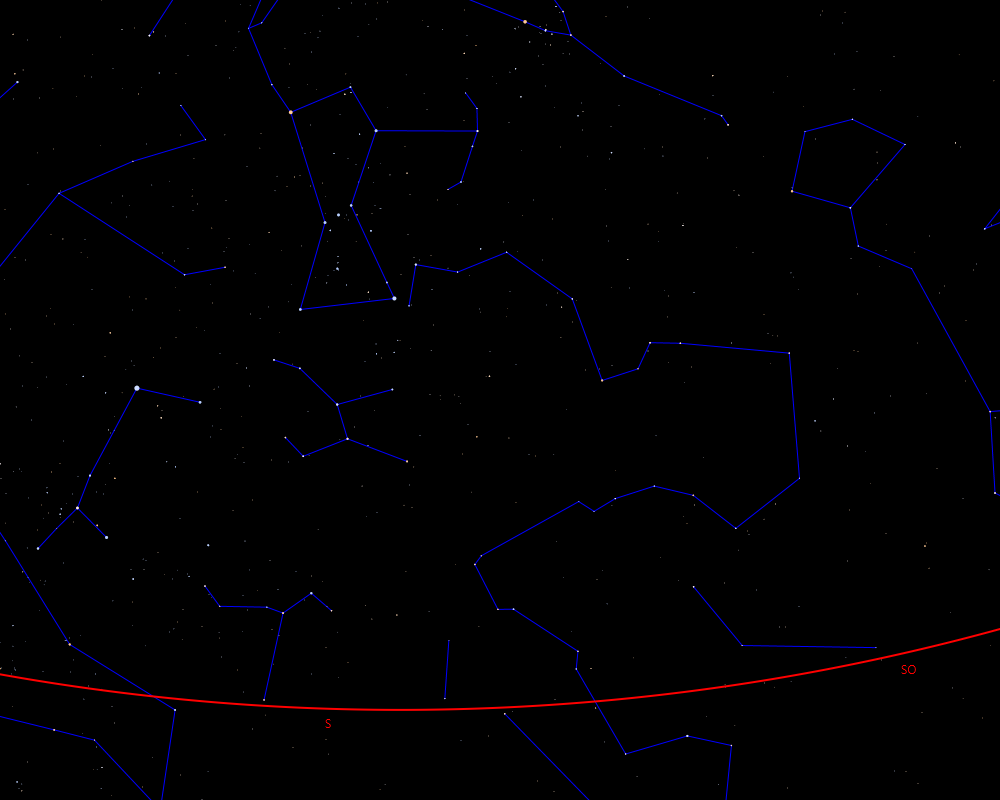
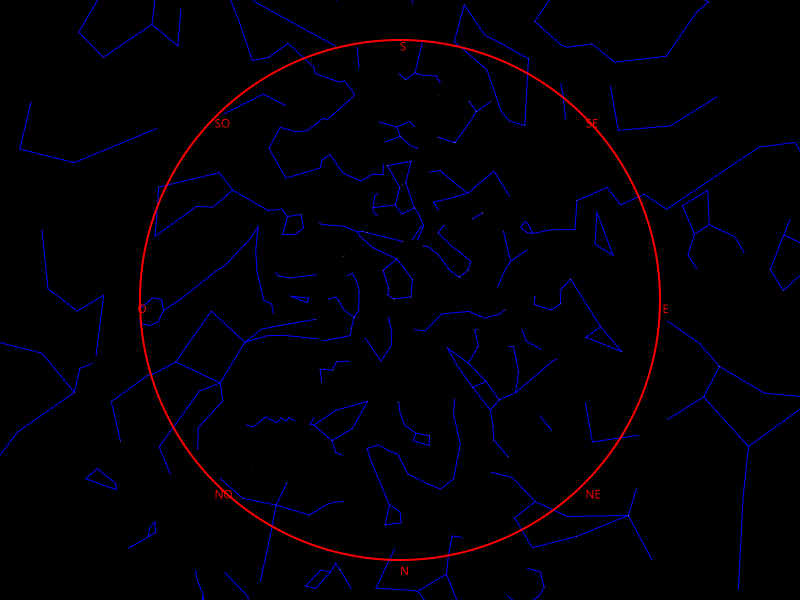
ShittyCorrectionThisISAnUPDATE

diff --git a/src/ch/epfl/rigel/gui/SkyCanvasPainter.java b/src/ch/epfl/rigel/gui/SkyCanvasPainter.java
@@ -151,8 +151,9 @@ public class SkyCanvasPainter { //classe instanciable //TODO Instanciable = Fina
             double diameter = objectDiameter(planetMagn,multiplyFactor);
             ctx.setFill(Color.LIGHTGRAY);
             double diam2 = planeToCanvas.deltaTransform(diameter,0).getX();
-            double x = planetCoord[(2*counter)];
-            double y = planetCoord[(2*counter)+1];
+            double x = planetCoord[(2*counter)] - 0.5*diam2;
+            double y = planetCoord[(2*counter)+1] - 0.5*diam2;
+            ctx.fillOval(x, y, diam2, diam2);
             counter++;
             //System.out.println("Planet: "+p.name()+" created");
         }
@@ -168,7 +169,7 @@ public class SkyCanvasPainter { //classe instanciable //TODO Instanciable = Fina
 
         Sun sun = sky.sun();
         CartesianCoordinates sunPos = sky.sunPosition();
-        Point2D planeCoord = planeToCanvas.deltaTransform(sunPos.x(),sunPos.y());
+        Point2D planeCoord = planeToCanvas.transform(sunPos.x(),sunPos.y());
         double sunDiam = projection.applyToAngle(Angle.ofDeg(0.5));
 
         double sunDiamTransformed = planeToCanvas.deltaTransform(sunDiam,0).getX();
@@ -206,7 +207,7 @@ public class SkyCanvasPainter { //classe instanciable //TODO Instanciable = Fina
         CartesianCoordinates moonPos = sky.moonPosition();
         double moonDiam = projection.applyToAngle(moon.angularSize());
         double moonDiamTransformed = planeToCanvas.deltaTransform(moonDiam,0).getX();
-        Point2D coordTransformed = planeToCanvas.deltaTransform(moonPos.x(),moonPos.y());
+        Point2D coordTransformed = planeToCanvas.transform(moonPos.x(),moonPos.y());
         double x = coordTransformed.getX() - (0.5*moonDiamTransformed);
         double y = coordTransformed.getY() - (0.5*moonDiamTransformed);
         //System.out.println("x:"+x);
@@ -222,12 +223,14 @@ public class SkyCanvasPainter { //classe instanciable //TODO Instanciable = Fina
      */
     public void drawHorizon(StereographicProjection projection, Transform planeToCanvas){
 
+        System.out.println("pltoc(h): "+planeToCanvas.toString());
+
         HorizontalCoordinates parallel = HorizontalCoordinates.of(0,0);
         //System.out.println("modif (x,y)=("+centerModif.getX()+","+centerModif.getY()+")");
         CartesianCoordinates center = projection.circleCenterForParallel(parallel);
         Point2D centerTransformed = planeToCanvas.transform(center.x(), center.y());
-        double diam = projection.circleRadiusForParallel(parallel);
-        double diamTransformed = 2*planeToCanvas.deltaTransform(diam,0).getX();
+        double radius = projection.circleRadiusForParallel(parallel);
+        double diamTransformed = 2*planeToCanvas.deltaTransform(radius,0).getX();
         double x = centerTransformed.getX()-diamTransformed*0.5;
         double y =  centerTransformed.getY()-diamTransformed*0.5;
         ctx.setStroke(Color.RED);

diff --git a/src/ch/epfl/rigel/gui/SkyCanvasManager.java b/src/ch/epfl/rigel/gui/SkyCanvasManager.java
@@ -120,6 +120,7 @@ public final class SkyCanvasManager {
                 dilatationFactor, canvas.widthProperty(), canvas.heightProperty()
         );
 
+
         //observedSky
         date = dateTimeBean.dateProperty();
         time = dateTimeBean.timeProperty();
@@ -144,7 +145,8 @@ public final class SkyCanvasManager {
             double y = mousePosition.get().y();
             //try catch because height and width of canvas are 0 and inverseDeltaTransform is impossible
             try {
-                Point2D canvasToPlane = planeToCanvas.get().inverseDeltaTransform(x,y);
+                Point2D canvasToPlane = planeToCanvas.get().inverseTransform(x,y);
+                System.out.println("pltoc(m): "+planeToCanvas.toString());
                 CartesianCoordinates coordinates = CartesianCoordinates.of(canvasToPlane.getX(), canvasToPlane.getY());
                 return projection.get().inverseApply(coordinates);
             } catch (NonInvertibleTransformException e){
@@ -164,7 +166,7 @@ public final class SkyCanvasManager {
             try {
                 Point2D canvasToPlane = planeToCanvas.get().inverseTransform(x,y); //TODO it was inverseTransform and not inversedeltaTransform cause it is a point
                 CartesianCoordinates coordinates = CartesianCoordinates.of(canvasToPlane.getX(), canvasToPlane.getY()); //TODO now it's working
-                double dist = planeToCanvas.get().deltaTransform(10,0).getX(); //TODO check that
+                double dist = planeToCanvas.get().inverseDeltaTransform(10,0).getX(); //TODO check that
                 return observedSky.get().objectClosestTo(coordinates ,dist).get(); //TODO put '10' in a static variable
             } catch (NonInvertibleTransformException e){
                 return null;

diff --git a/test/ch/epfl/rigel/gui/DrawSky.java b/test/ch/epfl/rigel/gui/DrawSky.java
@@ -44,7 +44,7 @@ public final class DrawSky extends Application {
             GeographicCoordinates where =
                     GeographicCoordinates.ofDeg(6.57, 46.52);
             HorizontalCoordinates projCenter =
-                    HorizontalCoordinates.ofDeg(186, 35);
+                    HorizontalCoordinates.ofDeg(0,90);
                     //HorizontalCoordinates.ofDeg(180, 45); //WE LOOK AT 180(=South) and 45 degrée alt
             StereographicProjection projection;
             projection = new StereographicProjection(projCenter);
@@ -52,10 +52,11 @@ public final class DrawSky extends Application {
                     new ObservedSky(when, where, projection, catalogue);
 
             Canvas canvas =
-                    //new Canvas(800, 600);
-                    new Canvas(1000, 800);
+                    new Canvas(800, 600);
+                    //new Canvas(1000, 800);
             Transform planeToCanvas =
-                    Transform.affine(1300, 0, 0, -1300, 400, 300);
+                    //Transform.affine(1300, 0, 0, -1300, 400, 300);
+                    Transform.affine(260, 0, 0, -260, 400, 300);
             SkyCanvasPainter painter =
                     new SkyCanvasPainter(canvas);
 

diff --git a/src/ch/epfl/rigel/gui/Main.java b/src/ch/epfl/rigel/gui/Main.java
@@ -97,7 +97,9 @@ public class Main extends Application {
                     new ViewingParametersBean();
             viewingParametersBean.setCenter(
                     HorizontalCoordinates.ofDeg(180.000000000001, 42));
+                    //HorizontalCoordinates.ofDeg(0, 90)); //TODO DEBUG
             viewingParametersBean.setFieldOfViewDeg(100);
+            //viewingParametersBean.setFieldOfViewDeg(250);
             //horizontalCoordProperty = viewingParametersBean.centerProperty();
             //fovProperty = viewingParametersBean.fieldOfViewDegProperty();
 
